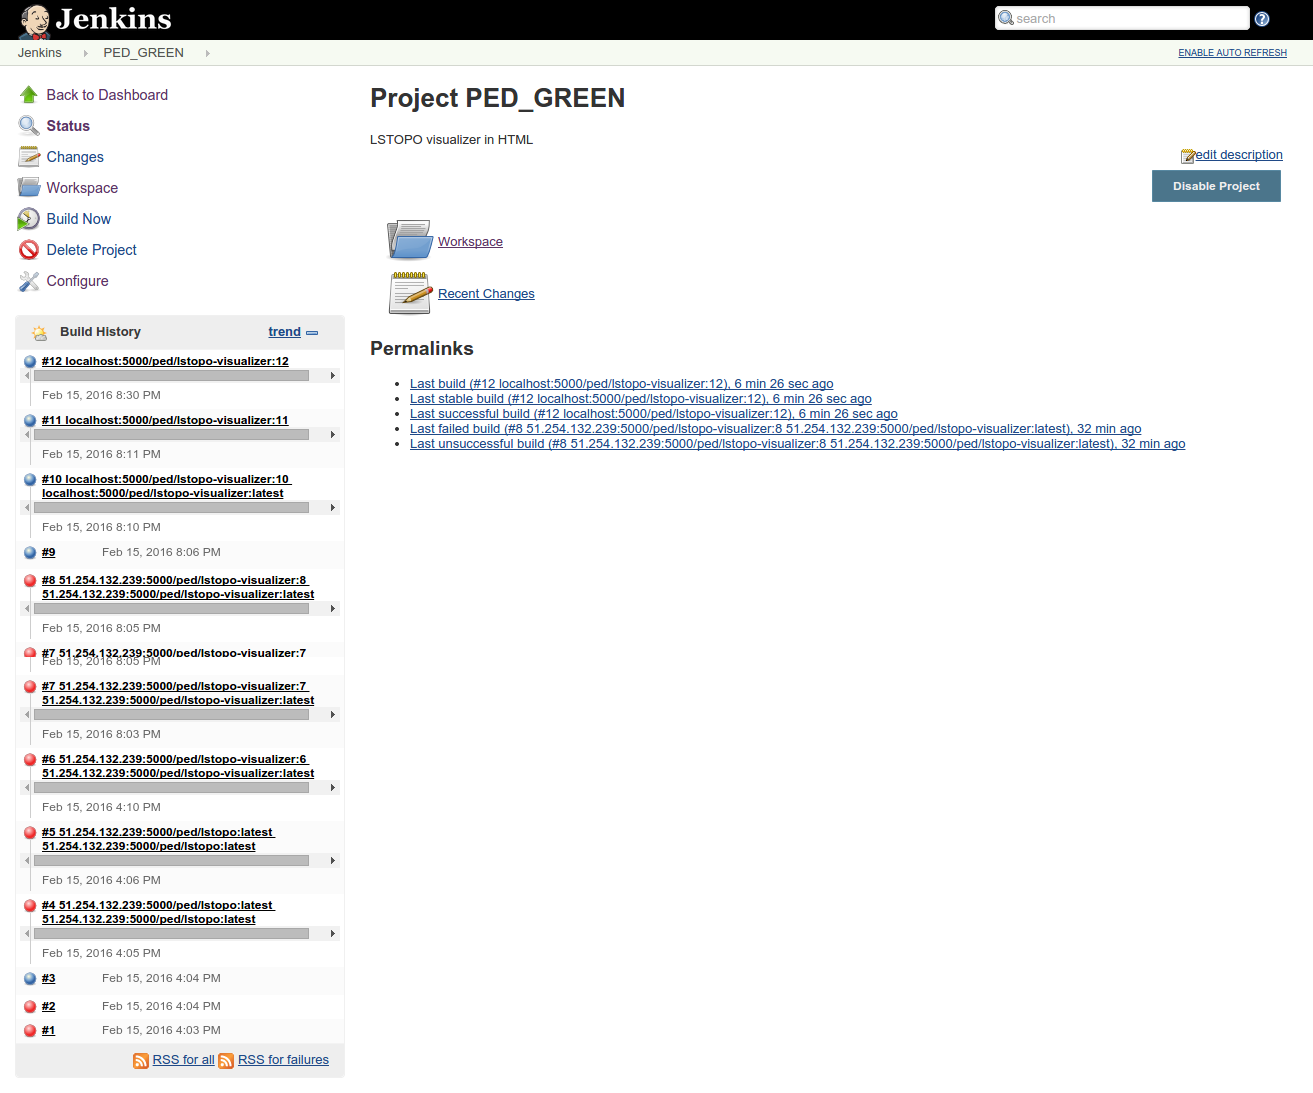
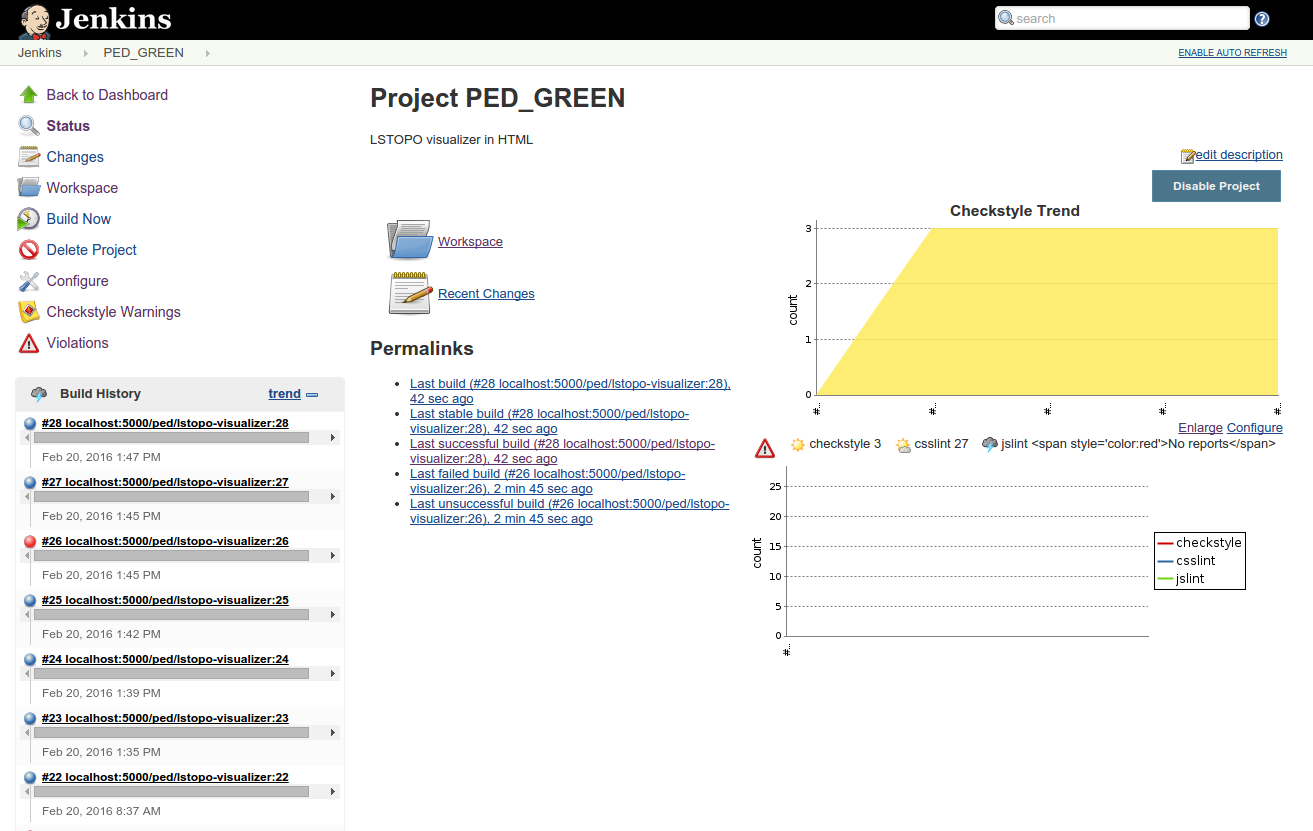
Javascript/CSS testing quality using CSSlint & JShint alongside with Jenkins Violation report plugin

Changed region(s): [[0.0, 0.0, 1.0, 0.9928], [0.8743, 0.1203, 0.9992, 0.2407], [0.8743, 0.6318, 0.9368, 0.722]]

diff --git a/README.md b/README.md
@@ -34,3 +34,5 @@
 * NodeJS
 * ExpressJS
 * Mocha
+* JShint
+* CSSlint
